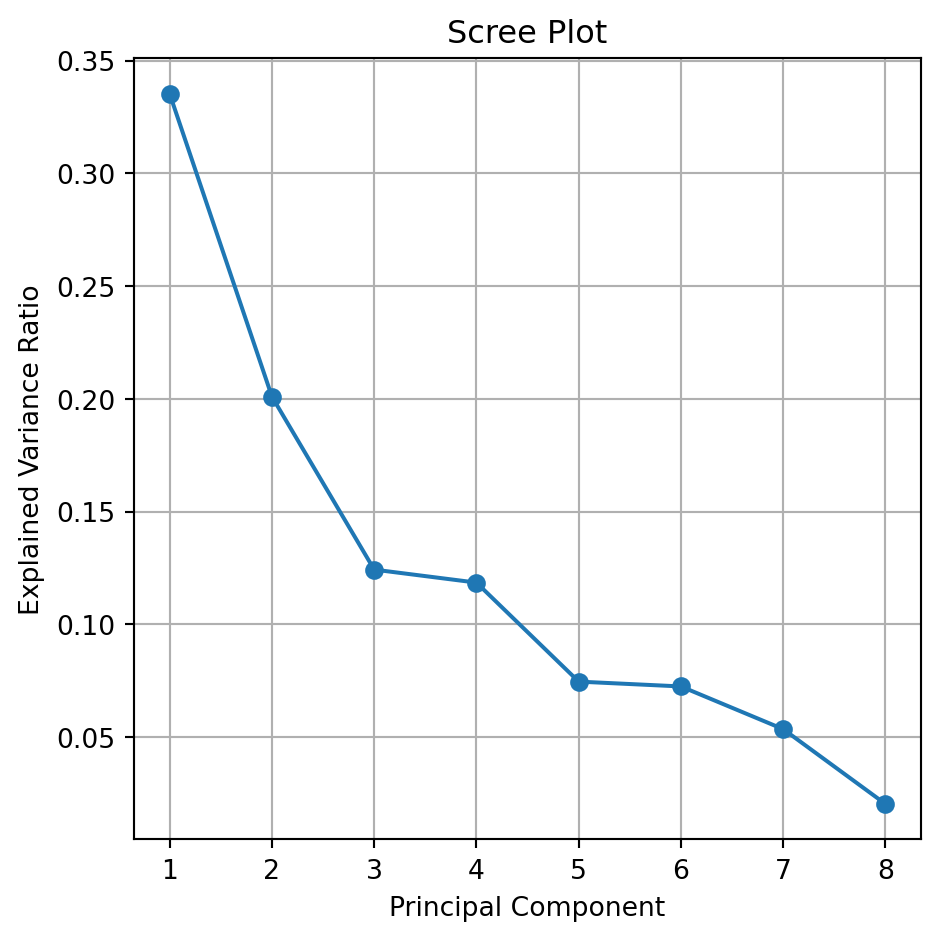
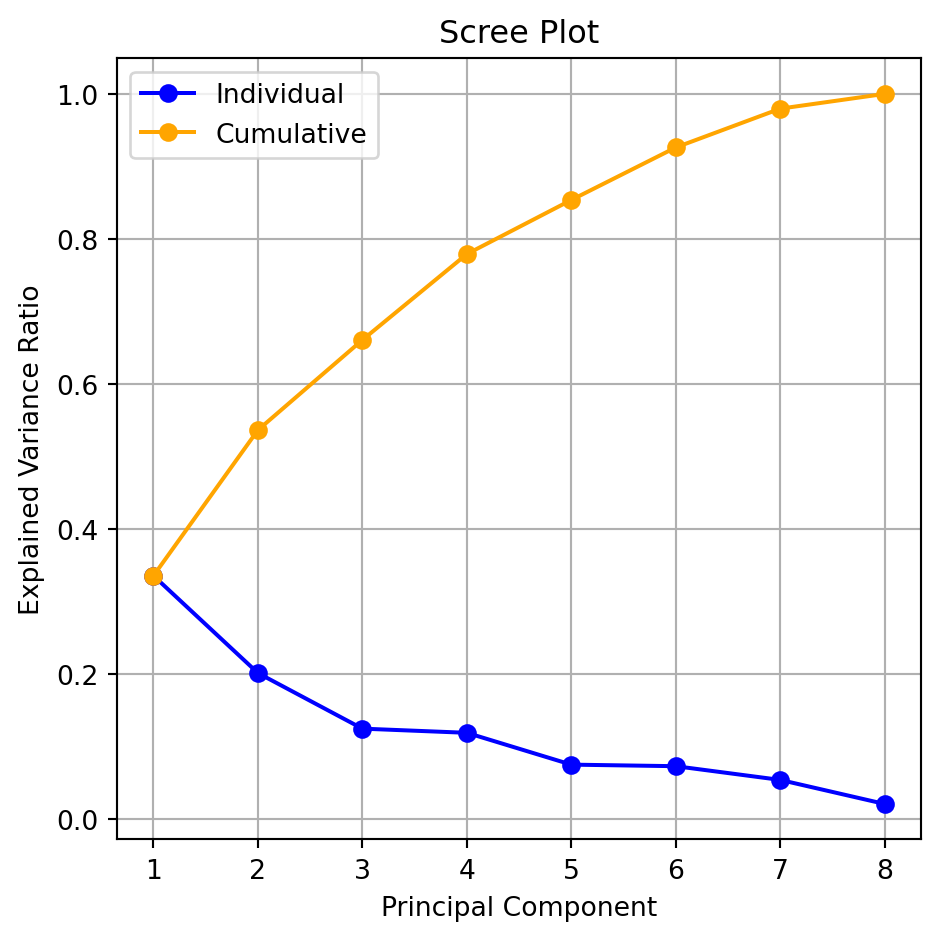
Update PCA
Add the cumulative plot

diff --git a/docs/Module4/PCA.slides.html b/docs/Module4/PCA.slides.html
@@ -230,7 +230,7 @@ Alan R. Vazquez
 <h2>Load the libraries</h2>
 <p><br><br></p>
 <p>Before we start, let’s import the data science libraries into Python.</p>
-<div id="161783a2" class="cell" data-execution_count="1">
+<div id="621e760e" class="cell" data-execution_count="1">
 <div class="code-copy-outer-scaffold"><div class="sourceCode cell-code" id="cb1"><pre class="sourceCode numberSource python number-lines code-with-copy"><code class="sourceCode python"><span id="cb1-1"><a></a><span class="im">import</span> numpy <span class="im">as</span> np</span>
 <span id="cb1-2"><a></a><span class="im">import</span> pandas <span class="im">as</span> pd</span>
 <span id="cb1-3"><a></a><span class="im">import</span> matplotlib.pyplot <span class="im">as</span> plt</span>
@@ -688,10 +688,10 @@ Alan R. Vazquez
 </section>
 <section id="the-data" class="slide level2">
 <h2>The data</h2>
-<div id="46b07026" class="cell" data-execution_count="2">
+<div id="45cdecb6" class="cell" data-execution_count="2">
 <div class="code-copy-outer-scaffold"><div class="sourceCode cell-code" id="cb2"><pre class="sourceCode numberSource python number-lines code-with-copy"><code class="sourceCode python"><span id="cb2-1"><a></a>tiktok_data <span class="op">=</span> pd.read_excel(<span class="st">"TikTok_Songs_2020_Reduced.xlsx"</span>)</span>
 <span id="cb2-2"><a></a>tiktok_data.head(<span class="dv">3</span>)</span></code></pre></div><button title="Copy to Clipboard" class="code-copy-button"><i class="bi"></i></button></div>
-<div class="cell-output cell-output-display" data-execution_count="2">
+<div class="cell-output cell-output-display" data-execution_count="57">
 <div>
 <style scoped="">
     .dataframe tbody tr th:only-of-type {
@@ -778,7 +778,7 @@ Alan R. Vazquez
 <h2>Standardize the data</h2>
 <p><br></p>
 <p>Remember that PCA works with distances, so we must standardize the quantitative predictors to have an accurate analysis.</p>
-<div id="024df60f" class="cell" data-execution_count="3">
+<div id="7606508b" class="cell" data-execution_count="3">
 <div class="code-copy-outer-scaffold"><div class="sourceCode cell-code" id="cb3"><pre class="sourceCode numberSource python number-lines code-with-copy"><code class="sourceCode python"><span id="cb3-1"><a></a><span class="co"># Select the predictors</span></span>
 <span id="cb3-2"><a></a>features <span class="op">=</span> [<span class="st">'danceability'</span>, <span class="st">'energy'</span>, <span class="st">'loudness'</span>, <span class="st">'speechiness'</span>,</span>
 <span id="cb3-3"><a></a>            <span class="st">'acousticness'</span>, <span class="st">'liveness'</span>, <span class="st">'valence'</span>, <span class="st">'tempo'</span>]</span>
@@ -793,7 +793,7 @@ Alan R. Vazquez
 <h2>PCA in Python</h2>
 <p><br><br></p>
 <p>We tell Python that we want to apply PCA using the function <code>PCA()</code> from <strong>sklearn</strong>. Next, we run the algorithm using <code>.fit_transform()</code>.</p>
-<div id="eb0da8f6" class="cell" data-execution_count="4">
+<div id="fdaecc39" class="cell" data-execution_count="4">
 <div class="code-copy-outer-scaffold"><div class="sourceCode cell-code" id="cb4"><pre class="sourceCode numberSource python number-lines code-with-copy"><code class="sourceCode python"><span id="cb4-1"><a></a>pca <span class="op">=</span> PCA()</span>
 <span id="cb4-2"><a></a>PCA_tiktok <span class="op">=</span> pca.fit_transform(Xs_tiktok)</span></code></pre></div><button title="Copy to Clipboard" class="code-copy-button"><i class="bi"></i></button></div>
 </div>
@@ -805,13 +805,13 @@ Alan R. Vazquez
 <div class="column" style="width:50%;">
 <p><br></p>
 <ul>
-<li><p>The <strong><em>Scree</em> or Summary Plot</strong> tells you the variability captured by each component. From 1 to 8 components.</p></li>
+<li><p>The <strong><em>Scree</em></strong> <strong>or Summary Plot</strong> tells you the variability captured by each component. From 1 to 8 components.</p></li>
 <li><p>The first component covers most of the data dispersion.</p></li>
 <li><p>This graph is used to define the total number of components to use.</p></li>
 </ul>
 </div><div class="column" style="width:50%;">
 <p><br><br></p>
-<div id="5ba94f1d" class="cell" data-execution_count="5">
+<div id="c198ca56" class="cell" data-execution_count="5">
 <div class="cell-output cell-output-display">
 <div class="quarto-figure quarto-figure-center">
 <figure>
@@ -825,21 +825,25 @@ Alan R. Vazquez
 </section>
 <section id="section-9" class="slide level2">
 <h2></h2>
-<p><br><br></p>
+<p><br></p>
 <p>The code to generate a scree plot is below.</p>
-<div id="55fde9c5" class="cell" data-execution_count="6">
+<div id="29498ba6" class="cell" data-execution_count="6">
 <div class="code-copy-outer-scaffold"><div class="sourceCode cell-code" id="cb5"><pre class="sourceCode numberSource python number-lines code-with-copy"><code class="sourceCode python"><span id="cb5-1"><a></a>explained_var <span class="op">=</span> pca.explained_variance_ratio_</span>
-<span id="cb5-2"><a></a></span>
-<span id="cb5-3"><a></a>plt.figure(figsize<span class="op">=</span>(<span class="dv">5</span>, <span class="dv">5</span>))</span>
-<span id="cb5-4"><a></a>plt.plot(<span class="bu">range</span>(<span class="dv">1</span>, <span class="bu">len</span>(explained_var) <span class="op">+</span> <span class="dv">1</span>), explained_var, </span>
-<span id="cb5-5"><a></a>         marker<span class="op">=</span><span class="st">'o'</span>, linestyle<span class="op">=</span><span class="st">'-'</span>)</span>
-<span id="cb5-6"><a></a>plt.title(<span class="st">'Scree Plot'</span>)</span>
-<span id="cb5-7"><a></a>plt.xlabel(<span class="st">'Principal Component'</span>)</span>
-<span id="cb5-8"><a></a>plt.ylabel(<span class="st">'Explained Variance Ratio'</span>)</span>
-<span id="cb5-9"><a></a>plt.xticks(<span class="bu">range</span>(<span class="dv">1</span>, <span class="bu">len</span>(explained_var) <span class="op">+</span> <span class="dv">1</span>))</span>
-<span id="cb5-10"><a></a>plt.grid(<span class="va">True</span>)</span>
-<span id="cb5-11"><a></a>plt.tight_layout()</span>
-<span id="cb5-12"><a></a>plt.show()</span></code></pre></div><button title="Copy to Clipboard" class="code-copy-button"><i class="bi"></i></button></div>
+<span id="cb5-2"><a></a>cumulative_explained_var <span class="op">=</span> np.cumsum(explained_var)</span>
+<span id="cb5-3"><a></a></span>
+<span id="cb5-4"><a></a>plt.figure(figsize<span class="op">=</span>(<span class="dv">5</span>, <span class="dv">5</span>))</span>
+<span id="cb5-5"><a></a>plt.plot(<span class="bu">range</span>(<span class="dv">1</span>, <span class="bu">len</span>(explained_var) <span class="op">+</span> <span class="dv">1</span>), explained_var, marker<span class="op">=</span><span class="st">'o'</span>, </span>
+<span id="cb5-6"><a></a>         color <span class="op">=</span> <span class="st">'blue'</span>, label<span class="op">=</span><span class="st">'Individual'</span>)</span>
+<span id="cb5-7"><a></a>plt.plot(<span class="bu">range</span>(<span class="dv">1</span>, <span class="bu">len</span>(explained_var) <span class="op">+</span> <span class="dv">1</span>), cumulative_explained_var, </span>
+<span id="cb5-8"><a></a>         marker<span class="op">=</span><span class="st">'o'</span>, color<span class="op">=</span><span class="st">'orange'</span>, label<span class="op">=</span><span class="st">'Cumulative'</span>)         </span>
+<span id="cb5-9"><a></a>plt.title(<span class="st">'Scree Plot'</span>)</span>
+<span id="cb5-10"><a></a>plt.xlabel(<span class="st">'Principal Component'</span>)</span>
+<span id="cb5-11"><a></a>plt.ylabel(<span class="st">'Explained Variance Ratio'</span>)</span>
+<span id="cb5-12"><a></a>plt.xticks(<span class="bu">range</span>(<span class="dv">1</span>, <span class="bu">len</span>(explained_var) <span class="op">+</span> <span class="dv">1</span>))</span>
+<span id="cb5-13"><a></a>plt.grid(<span class="va">True</span>)</span>
+<span id="cb5-14"><a></a>plt.legend()</span>
+<span id="cb5-15"><a></a>plt.tight_layout()</span>
+<span id="cb5-16"><a></a>plt.show()</span></code></pre></div><button title="Copy to Clipboard" class="code-copy-button"><i class="bi"></i></button></div>
 </div>
 </section>
 <section id="biplot" class="slide level2">
@@ -853,7 +857,7 @@ Alan R. Vazquez
 <li>A red line indicates the growth direction of the labeled variable.</li>
 </ul>
 </div><div class="column" style="width:50%;">
-<div id="216ce423" class="cell" data-execution_count="7">
+<div id="08b6c1ae" class="cell" data-execution_count="7">
 <div class="cell-output cell-output-display">
 <div class="quarto-figure quarto-figure-center">
 <figure>
@@ -869,10 +873,10 @@ Alan R. Vazquez
 <h2></h2>
 <p>The code to generate the biplot is lenghty but it can be broken into three steps.</p>
 <p>Step 1. Create a DataFrame with the PCA results</p>
-<div id="4000e697" class="cell" data-execution_count="8">
+<div id="05e8e786" class="cell" data-execution_count="8">
 <div class="code-copy-outer-scaffold"><div class="sourceCode cell-code" id="cb6"><pre class="sourceCode numberSource python number-lines code-with-copy"><code class="sourceCode python"><span id="cb6-1"><a></a>pca_df <span class="op">=</span> pd.DataFrame(PCA_tiktok, columns<span class="op">=</span>[<span class="ss">f'PC</span><span class="sc">{</span>i<span class="op">+</span><span class="dv">1</span><span class="sc">}</span><span class="ss">'</span> <span class="cf">for</span> i <span class="kw">in</span> <span class="bu">range</span>(PCA_tiktok.shape[<span class="dv">1</span>])])</span>
 <span id="cb6-2"><a></a>pca_df.head()</span></code></pre></div><button title="Copy to Clipboard" class="code-copy-button"><i class="bi"></i></button></div>
-<div class="cell-output cell-output-display" data-execution_count="8">
+<div class="cell-output cell-output-display" data-execution_count="63">
 <div>
 <style scoped="">
     .dataframe tbody tr th:only-of-type {
@@ -968,7 +972,7 @@ Alan R. Vazquez
 <section id="section-11" class="slide level2">
 <h2></h2>
 <p>Step 2. Create biplot of first two principal components</p>
-<div id="ef584c6c" class="cell" data-execution_count="9">
+<div id="cf5e6208" class="cell" data-execution_count="9">
 <details class="code-fold">
 <summary>Code</summary>
 <div class="code-copy-outer-scaffold"><div class="sourceCode cell-code" id="cb7"><pre class="sourceCode numberSource python number-lines code-with-copy"><code class="sourceCode python"><span id="cb7-1"><a></a>plt.figure(figsize<span class="op">=</span>(<span class="dv">10</span>, <span class="fl">5.5</span>))</span>
@@ -994,7 +998,7 @@ Alan R. Vazquez
 <section id="section-12" class="slide level2">
 <h2></h2>
 <p>Step 3. Add more information to the biplot.</p>
-<div id="d97dc910" class="cell" data-execution_count="10">
+<div id="f6051458" class="cell" data-execution_count="10">
 <details class="code-fold">
 <summary>Code</summary>
 <div class="code-copy-outer-scaffold"><div class="sourceCode cell-code" id="cb8"><pre class="sourceCode numberSource python number-lines code-with-copy"><code class="sourceCode python"><span id="cb8-1"><a></a>plt.figure(figsize<span class="op">=</span>(<span class="dv">10</span>, <span class="fl">5.5</span>))</span>
@@ -1028,7 +1032,7 @@ Alan R. Vazquez
 <section id="section-13" class="slide level2">
 <h2></h2>
 <p>With some extra lines of code, we label the points in the plot.</p>
-<div id="1d83b715" class="cell" data-execution_count="11">
+<div id="32cf23e3" class="cell" data-execution_count="11">
 <details class="code-fold">
 <summary>Code</summary>
 <div class="code-copy-outer-scaffold"><div class="sourceCode cell-code" id="cb9"><pre class="sourceCode numberSource python number-lines code-with-copy"><code class="sourceCode python"><span id="cb9-1"><a></a>pca_df <span class="op">=</span> pd.DataFrame(PCA_tiktok, columns<span class="op">=</span>[<span class="ss">f'PC</span><span class="sc">{</span>i<span class="op">+</span><span class="dv">1</span><span class="sc">}</span><span class="ss">'</span> <span class="cf">for</span> i <span class="kw">in</span> <span class="bu">range</span>(PCA_tiktok.shape[<span class="dv">1</span>])])</span>
